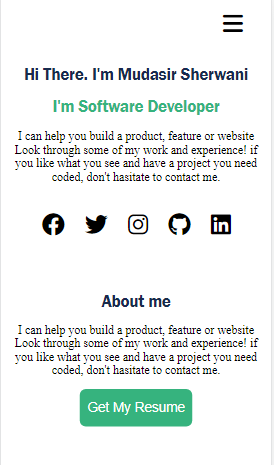
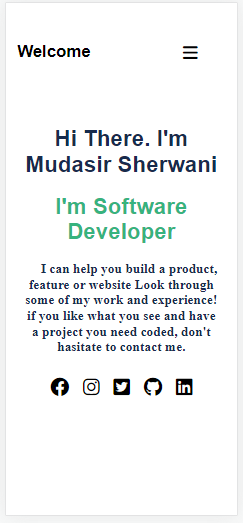
Required Changes Done for PR#1 Code Review 1st

Changed region(s): [[0.0, 0.0, 0.9794, 0.9935], [0.0576, 0.0602, 0.9218, 0.1806], [0.749, 0.0301, 0.893, 0.1204]]

diff --git a/styles.css b/styles.css
@@ -1,124 +1,73 @@
 .flex-container {
-  display: flex;
-  background-color: rgb(255, 255, 255);
-  flex-direction: column;
+  padding: 0;
+  margin: 0;
+  text-decoration: none;
+  list-style: none;
+  box-sizing: border-box;
+  font-family: Arial, Helvetica, sans-serif;
+  flex: none;
+  order: 0;
+  flex-grow: 0;
 }
 
-.flex-container-card {
-  display: flex;
-  background-color: rgb(198, 199, 201);
-  justify-content: space-evenly;
-  height: 400px;
-}
-
-.flex-container-card > div {
-  width: 300px;
-  border-style: groove;
-  border-width: 1px;
-  border-color: #36b37e;
-  text-align: center;
-}
-
-.flex-container > div {
-  background-color: #fff;
-  margin: 5px;
-  padding: 5px;
+nav {
+  height: 80px;
+  width: 100%;
   font-size: 30px;
 }
 
-.header-area {
-  height: 35px;
-}
-
-.fa-bars {
+nav label {
   float: right;
-  margin-right: 20px;
-}
-
-ul {
-  list-style-type: none;
-  text-align: center;
-}
-
-ul li {
-  display: inline;
+  line-height: 80px;
   position: relative;
-  top: -28px;
+  top: 50px;
+  right: 70px;
 }
 
-a {
-  padding: 10px;
-  margin: 10px;
-  text-decoration: none;
-  font-size: 18px;
+.logo {
+  position: relative;
+  float: left;
+  top: 70px;
+  left: 20px;
+  font-weight: bold;
 }
 
-.banner-text {
-  text-align: center;
-  height: auto;
-}
-
-.banner-text > h1 {
+section h1 {
   color: #172b4d;
+  text-align: center;
+  margin: 30px;
+  margin-top: 140px;
   font-size: 40px;
-  font-family: 'Franklin Gothic Medium', 'Arial Narrow', Arial, sans-serif;
+  font-weight: bold;
 }
 
-.banner-text > h2 {
+section h2 {
+  text-align: center;
+  margin: 30px;
+  font-size: 40px;
+  font-weight: bold;
   color: #36b37e;
-  font-size: 33px;
-  font-family: 'Franklin Gothic Medium', 'Arial Narrow', Arial, sans-serif;
 }
 
-.banner-text-pera > p {
+section p {
   color: #172b4d;
-  font-size: 12px;
-  margin-left: 200px;
-  margin-right: 200px;
-  position: relative;
+  text-align: center;
+  text-indent: 28px;
+  font-size: 24px;
+  font-weight: bold;
+  font-family: 'inter';
+  font-style: normal;
+  line-height: 28px;
+  margin: 30px;
+  background-color: transparent;
 }
 
-.social-icons i {
+.icon i {
   padding: 10px;
+  text-align: center;
+  font-size: 34px;
 }
 
-.about-me {
-  background-color: #36b37e;
-  border: 0.1px;
-  height: 50px;
-  width: 150px;
-  border-radius: 8px;
-  font-size: 18px;
-  color: white;
-}
-
-@media only screen and (max-width: 600px) {
-  .header-area > ul > li > a {
-    font-size: 12px;
-    margin-left: 1px;
-  }
-
-  .header-area {
-    margin-top: -5px;
-  }
-
-  .banner-text > h1 {
-    font-size: 22px;
-  }
-
-  .banner-text > h2 {
-    font-size: 22px;
-  }
-
-  .banner-text-pera {
-    font-size: 16px;
-  }
-
-  .flex-container-card > div {
-    font-size: 16px;
-  }
-
-  .text-about {
-    font-size: 16px;
-  }
+.icon {
+  text-align: center;
 }

diff --git a/index.html b/index.html
@@ -9,52 +9,29 @@
   </head>
   <body>
     <div class="flex-container">
-      <div class="header-area">
-        <i class="fa-solid fa-bars"></i>
-        <!-- <ul>
-          <li><a href="#">Portfolio</a></li>
-          <li><a href="#">About</a></li>
-          <li><a href="#">Contact</a></li>
-        </ul> -->
-      </div>
-      <div class="banner-text" >
-        <h1>Hi There. I'm Mudasir Sherwani</h1>
-        <h2>I'm Software Developer</h2>
-        <div>
+      <header>
+        <nav>
+          <div class="logo">Welcome</div>
+            <label>
+              <i class="fas fa-bars"></i>
+            </label>
+        </nav>
+      </header>
+      <section>
+        <h1 class="developer-name">Hi There. I'm Mudasir Sherwani</h1>
+        <h2 class="software-developer">I'm Software Developer</h2>
           <p class="banner-text-pera">I can help you build a product, feature or website Look through some of my 
             work and experience! if you like what you see and have a project you need coded, don't hasitate to 
             contact me.
           </p>
-          <p class="social-icons">
-            <i class="fa-brands fa-facebook"></i>
-            <i class="fa-brands fa-twitter"></i>
-            <i class="fa-brands fa-instagram"></i>
-            <i class="fa-brands fa-github"></i>
-            <i class="fa-brands fa-linkedin"></i>
-          </p>
-        </div>
-     </div>
-          <!-- <div class="flex-container-card">
-          <div>Project#1</div>
-          <div>Project#2</div>
-          <div>Project#3</div>
-          </div> 
-          <div class="flex-container-card">
-          <div>Project#4</div>
-          <div>Project#5</div>
-          <div>Project#6</div>
-          </div>   
-          <div> -->
-      <div class="banner-text" >
-          <h1>About me</h1>
-          <p class="text-about">I can help you build a product, feature or website Look through some of my 
-            work and experience! if you like what you see and have a project you need coded, don't hasitate to 
-            contact me.
-          </p>
-          <button type="button" class="about-me">Get My Resume</button>
-      </div>
-      <div></div>
-      <div></div>
+          <div class="icon">
+            <i class='fab fa-facebook' ></i>
+            <i class='fab fa-instagram'></i>
+            <i class='fab fa-twitter-square'></i>
+            <i class='fab fa-github' ></i>
+            <i class='fab fa-linkedin' ></i>
+            </div>
+      </section>
     </div>
   </body>
 </html>
